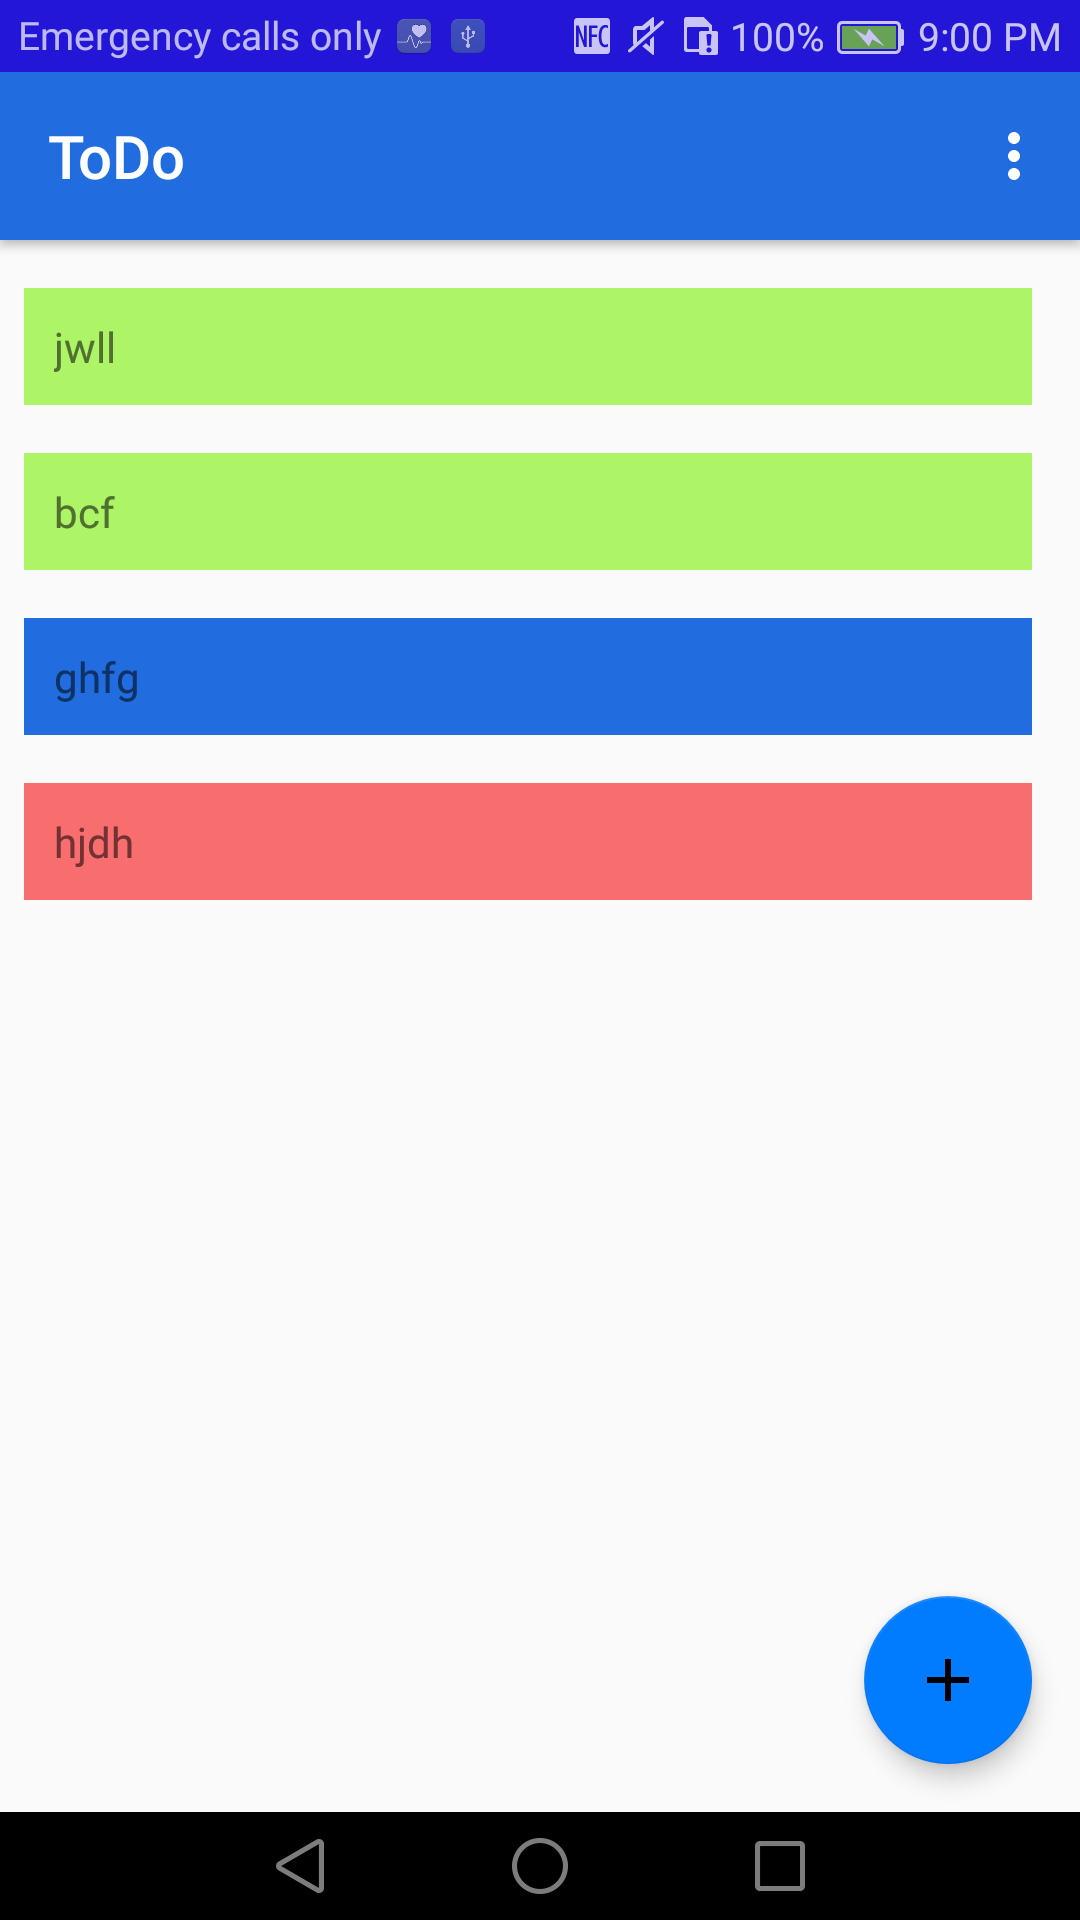
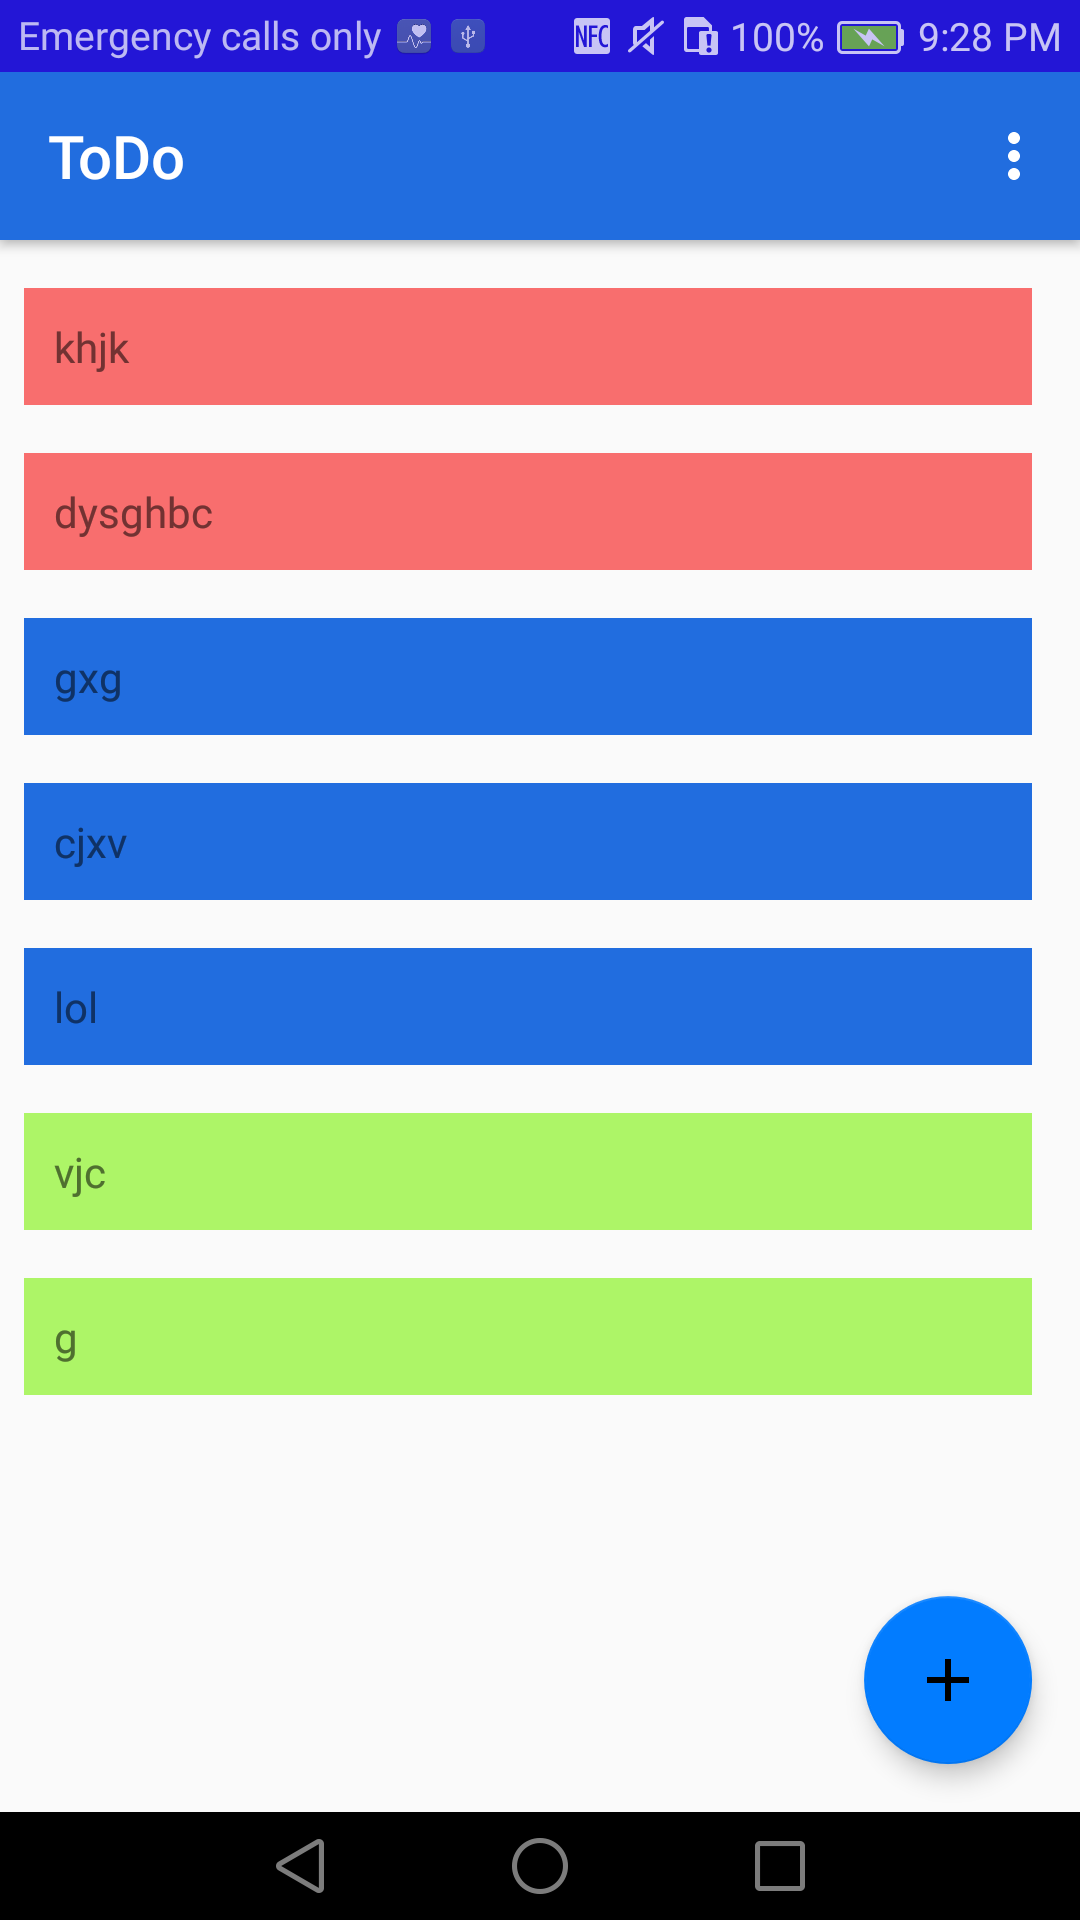
Added Edit Feature

diff --git a/app/src/main/java/com/kalai/todo/MainActivity.java b/app/src/main/java/com/kalai/todo/MainActivity.java
@@ -2,8 +2,8 @@ package com.kalai.todo;
 
 
 import android.arch.lifecycle.Observer;
-import android.arch.lifecycle.ViewModel;
 import android.arch.lifecycle.ViewModelProviders;
+import android.content.Context;
 import android.content.Intent;
 import android.os.Bundle;
 import android.support.annotation.NonNull;
@@ -20,13 +20,17 @@ import android.view.MenuItem;
 import android.widget.Toast;
 import java.util.List;
 
-public class MainActivity extends AppCompatActivity {
+public class MainActivity extends AppCompatActivity  implements EditDialogFragmentListener{
 
 
-    private ViewModel viewModel;
+    private AppViewModel viewModel;
     private ToDoAdapter toDoadapter;
     private RecyclerView toDoRecyclerView;
     private static final int NEW_TODO_REQUEST = 1;
+    public static final String TODO_TAG="com.kalai.todo.MainActivity.TODO";
+    public static final String TODO_POSITION="com.kalai.todo.MainActivity.TODO_POSITION";
+    public static final String TODO_PRIORITY_TAG="com.kalai.todo.MainActivity.TODO_PRIORITY";
+
 
 
 
@@ -47,7 +51,7 @@ public class MainActivity extends AppCompatActivity {
             @Override
             public void onClick(View view) {
                 Intent intent=new Intent(getApplicationContext(),NewToDo.class);
-            startActivityForResult(intent,NEW_TODO_REQUEST);
+                startActivityForResult(intent,NEW_TODO_REQUEST);
             }
         });
 
@@ -68,9 +72,10 @@ public class MainActivity extends AppCompatActivity {
             @Override
             public void onSwiped(@NonNull RecyclerView.ViewHolder viewHolder, int i) {
                 int position=viewHolder.getAdapterPosition();
-                Todo todo=toDoadapter.getToDO(position);
+                Todo todo=toDoadapter.getTodo(position);
                 Toast.makeText(getApplicationContext(),"Deleted "+todo.getTodoText(),Toast.LENGTH_SHORT).show();
-                ((AppViewModel) viewModel).delete(todo);
+                viewModel.delete(todo);
+
 
             }
         });
@@ -91,10 +96,9 @@ public class MainActivity extends AppCompatActivity {
         // automatically handle clicks on the Home/Up button, so long
         // as you specify a parent activity in AndroidManifest.xml.
         int id = item.getItemId();
-        viewModel= ViewModelProviders.of(this).get(AppViewModel.class);
         //noinspection SimplifiableIfStatement
         if (id == R.id.action_delete_all) {
-            ((AppViewModel) viewModel).deleteAll();
+            viewModel.deleteAll();
             Toast.makeText(this,"Cleared the database",Toast.LENGTH_SHORT).show();
             return true;
         }
@@ -111,9 +115,9 @@ public class MainActivity extends AppCompatActivity {
                 msgID=R.string.Toast_msg_new_todo_success;
                 assert data != null;
                 float priority= data.getFloatExtra(NewToDo.EXTRA_PRIORITY,1.0f);
-               String todo=data.getStringExtra(NewToDo.EXTRA_TODO);
-                viewModel= ViewModelProviders.of(this).get(AppViewModel.class);
-                ((AppViewModel) viewModel).insert(new Todo(todo,0,0,priority));
+                String todo=data.getStringExtra(NewToDo.EXTRA_TODO);
+
+                viewModel.insert(new Todo(todo,0,0,priority));
 
             }
             else{
@@ -122,5 +126,21 @@ public class MainActivity extends AppCompatActivity {
             Toast.makeText(this,getString(msgID),Toast.LENGTH_SHORT).show();
         }
 
+    }
+
+
+    public static void sendToEditDialogFragment(int position,String todoText, Float priority, Context context){
+        EditDialogFragment dialogFragment=new EditDialogFragment();
+        Bundle args=new Bundle();
+        args.putString(TODO_TAG,todoText);
+        args.putFloat(TODO_PRIORITY_TAG,priority);
+        args.putInt(TODO_POSITION,position);
+        dialogFragment.setArguments(args);
+        dialogFragment.show(((MainActivity)context).getSupportFragmentManager(),EditDialogFragment.TAG);
+    }
+    @Override
+    public void receiveEditDialogFragment(int position,String todo, Float priority) {
+        viewModel.delete(toDoadapter.getTodo(position));
+        viewModel.insert(new Todo(todo,0,0,priority));
     }
 }

diff --git a/app/src/main/java/com/kalai/todo/EditDialogFragment.java b/app/src/main/java/com/kalai/todo/EditDialogFragment.java
@@ -1,0 +1,75 @@
+package com.kalai.todo;
+
+import android.content.Context;
+import android.os.Bundle;
+import android.support.annotation.NonNull;
+import android.support.annotation.Nullable;
+import android.support.v4.app.DialogFragment;
+import android.view.LayoutInflater;
+import android.view.View;
+import android.view.ViewGroup;
+import android.widget.Button;
+import android.widget.EditText;
+import android.widget.RatingBar;
+
+
+public class EditDialogFragment extends DialogFragment {
+
+    RatingBar priorityFragRatingBar;
+    EditText todoFragEditText;
+    Button editFragButton;
+    EditDialogFragmentListener listener;
+    public static final String TAG = "com.kalai.todo.EditDialogFragment";
+
+
+    @Override
+    public void onAttach(Context context) {
+        super.onAttach(context);
+        if (context instanceof EditDialogFragmentListener) {
+            this.listener = (EditDialogFragmentListener) context;
+        } else {
+            throw new ClassCastException("Fragment called from wrong Activity "+context.toString());
+        }
+    }
+
+
+
+    @Nullable
+    @Override
+    public View onCreateView(@NonNull LayoutInflater inflater, @Nullable ViewGroup container, @Nullable Bundle savedInstanceState) {
+        View view=inflater.inflate(R.layout.dialog_edit_todo,container,false);
+        priorityFragRatingBar =view.findViewById(R.id.priorityFragRatingBar);
+        todoFragEditText =view.findViewById(R.id.todoFragEditText);
+        editFragButton=view.findViewById(R.id.editFragButton);
+        Bundle args=getArguments();
+        final String existingTodoText=args.getString(MainActivity.TODO_TAG);
+        final float existingTodoPriority=args.getFloat(MainActivity.TODO_PRIORITY_TAG);
+        final int position=args.getInt(MainActivity.TODO_POSITION);
+        todoFragEditText.setText(existingTodoText);
+        priorityFragRatingBar.setRating(existingTodoPriority);
+
+        editFragButton.setOnClickListener(new View.OnClickListener() {
+            @Override
+            public void onClick(View v) {
+                String updatedTodoText=todoFragEditText.getText().toString();
+                Float  updatedTodoPriority=priorityFragRatingBar.getRating();
+                if(updatedTodoText.isEmpty()
+                        ||listener==null||(updatedTodoPriority.equals(existingTodoPriority) && updatedTodoText.equals(existingTodoText))){
+
+                    getDialog().dismiss();
+                }
+                else{
+              listener.receiveEditDialogFragment(position,updatedTodoText,updatedTodoPriority);
+              getDialog().dismiss();
+                }
+
+            }
+        });
+        return view;
+    }
+
+
+
+
+
+}

diff --git a/app/src/main/java/com/kalai/todo/ToDoAdapter.java b/app/src/main/java/com/kalai/todo/ToDoAdapter.java
@@ -8,7 +8,8 @@ import android.view.LayoutInflater;
 import android.view.View;
 import android.view.ViewGroup;
 import android.widget.TextView;
-import android.widget.Toast;
+
+
 
 import java.util.List;
 
@@ -16,11 +17,12 @@ public class ToDoAdapter extends RecyclerView.Adapter<ToDoAdapter.toDoViewHolder
 
     private LayoutInflater layoutInflater;
     private List<Todo> todoList;
-
-
+    private Context context;
 
    ToDoAdapter(Context context){
         layoutInflater=LayoutInflater.from(context);
+        this.context=context;
+
     }
 
     @NonNull
@@ -35,6 +37,9 @@ public class ToDoAdapter extends RecyclerView.Adapter<ToDoAdapter.toDoViewHolder
        Todo todo=todoList.get(i);
     String todoText =todo.getTodoText();
     float priority=todo.getPriority();
+    toDoViewHolder.priority=priority;
+    toDoViewHolder.todoText=todoText;
+    toDoViewHolder.position=i;
     if(priority>=3.5){
         toDoViewHolder.titleTextView.setBackgroundColor(Color.rgb(248,110,110));
     }
@@ -53,7 +58,7 @@ public class ToDoAdapter extends RecyclerView.Adapter<ToDoAdapter.toDoViewHolder
         return todoList.size();
        return 0;
     }
-    public Todo getToDO(int position){
+    public Todo getTodo(int position){
        return todoList.get(position);
     }
 
@@ -62,15 +67,26 @@ public class ToDoAdapter extends RecyclerView.Adapter<ToDoAdapter.toDoViewHolder
         notifyDataSetChanged();
     }
 
-    class toDoViewHolder extends RecyclerView.ViewHolder{
+    public class toDoViewHolder extends RecyclerView.ViewHolder {
         private TextView titleTextView;
+        public String todoText;
+        public float priority;
+        int position;
         private toDoViewHolder(@NonNull View itemView) {
             super(itemView);
             titleTextView=itemView.findViewById(R.id.titleTextView);
 
+            itemView.setOnClickListener(new View.OnClickListener() {
+                @Override
+                public void onClick(View v) {
+                   MainActivity.sendToEditDialogFragment(position,todoText,priority,context);
+                }
+            });
 
 
 
         }
+
+
     }
 }

diff --git a/app/src/main/java/com/kalai/todo/Todo.java b/app/src/main/java/com/kalai/todo/Todo.java
@@ -3,11 +3,13 @@ package com.kalai.todo;
 import android.arch.persistence.room.ColumnInfo;
 import android.arch.persistence.room.Entity;
 import android.arch.persistence.room.PrimaryKey;
+import android.os.Parcel;
+import android.os.Parcelable;
 import android.support.annotation.NonNull;
 
 
 @Entity(tableName = "todo_table")
-public class Todo {
+public class Todo  {
     @PrimaryKey
     @NonNull
     @ColumnInfo(name = "todoText")
@@ -41,6 +43,7 @@ public class Todo {
     public float getPriority() {
         return priority;
     }
+
 
 
 }

diff --git a/app/src/main/java/com/kalai/todo/TodosDao.java b/app/src/main/java/com/kalai/todo/TodosDao.java
@@ -13,7 +13,7 @@ public interface TodosDao {
     @Insert
     void insert(Todo todo);
 
-    @Query("SELECT * FROM todo_table ORDER BY priority")
+    @Query("SELECT * FROM todo_table ORDER BY priority DESC")
     LiveData<List<Todo>> getAllTodos();
 
     @Delete

diff --git a/app/src/main/java/com/kalai/todo/EditDialogFragmentListener.java b/app/src/main/java/com/kalai/todo/EditDialogFragmentListener.java
@@ -1,0 +1,5 @@
+package com.kalai.todo;
+
+public interface EditDialogFragmentListener {
+    void receiveEditDialogFragment(int tobeDeletedTodoPosition,String todo, Float priority);
+}
